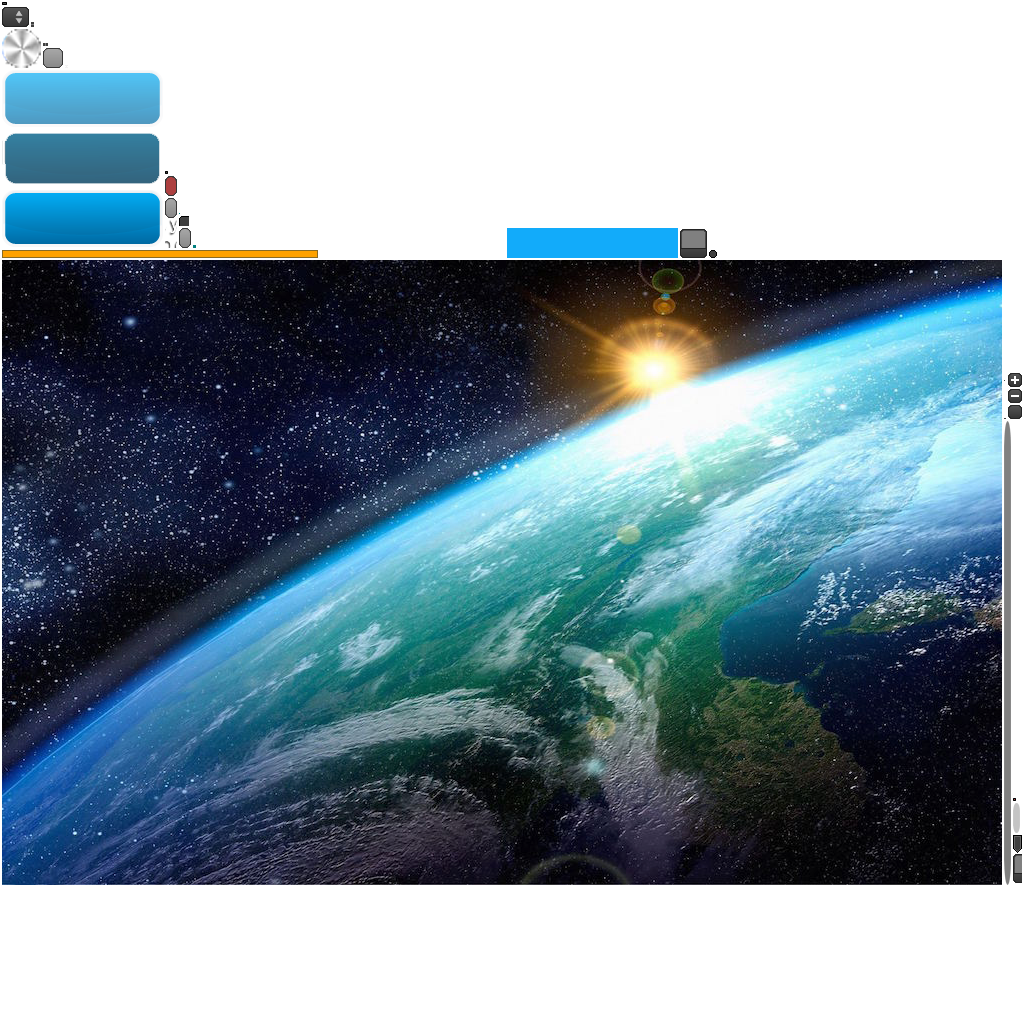
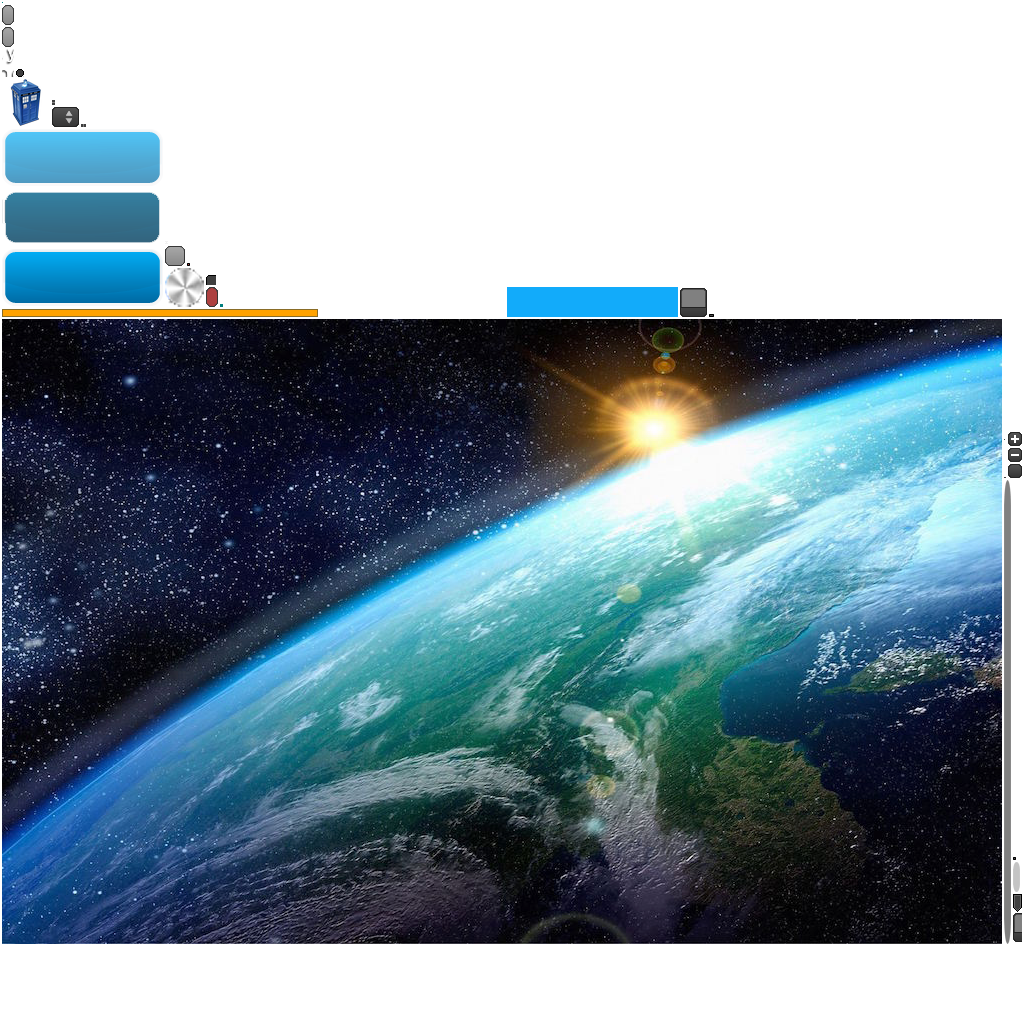
Tardis image on dummy undo button

diff --git a/core/src/com/mygdx/game/screens/CodingScreen.java b/core/src/com/mygdx/game/screens/CodingScreen.java
@@ -56,7 +56,7 @@ public class CodingScreen extends ScreenAdapter {
 //        Image undoImage = new Image(undoRegion);
         ImageTextButton.ImageTextButtonStyle style = new ImageTextButton.ImageTextButtonStyle();
 //        style.imageUp = undoImage;
-        ImageTextButton undoButton = new ImageTextButton("Undo", skin);
+        ImageTextButton undoButton = new ImageTextButton("Undo", skin, "undo-button");
 
 
 
